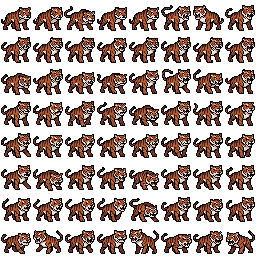
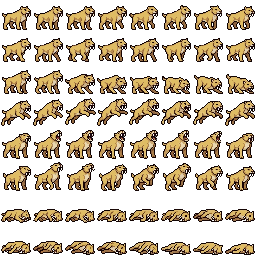
Nya bilder: örtgård, hygge, Dunkers hus, Dunker, Fjäss, gycklare, liggande lik, kista från sidan utan mynt, vinflaska, sabeltandad tiger
Claude-Session: https://claude.ai/code/session_018ajE8D2FggpF2yZQRYB5KY

diff --git a/spel.js b/spel.js
@@ -201,7 +201,7 @@ function visaTarningar(lista){
 const IKON = {
   // "i:" = npc/ikoner.png (ikonarket), "j:" = npc/ikoner2.png (ikonark 2), "g:" = npc/saker_grotta.png, "b:" = npc/saker_by.png
   "Läkedryck":"i:39","Läkande ört":"i:22","Grönfräken":"i:23","Gravstensalm":"i:24","Kråkmossa":"i:19","Hirtonbuske":"i:20","Tokfrans":"i:21",
-  "Krigarfasa":"g:50","Flaska vin":"g:29","Vin":"g:29","Rött té":"b:34","Äppelcider":"b:33","Lite bröd":"i:55","En limpa bröd":"i:55",
+  "Krigarfasa":"g:50","Flaska vin":"v:3","Vin":"v:3","Rött té":"b:34","Äppelcider":"b:33","Lite bröd":"i:55","En limpa bröd":"i:55",
   "Bröd (fyra kilo)":"i:55","Torkat kött":"i:56","Torkade fikon":"b:4","Rep":"i:16","Karta":"i:58","Karta över Grador och Liane":"i:58",
   "Trollformelbok":"i:44","Diktsamling":"g:13","Anteckningsblock":"g:13","Tärningsspel":"g:6","Elddon":"g:4",
   "Kort svärd":"i:0","Långsvärd":"i:1","Rostigt svärd":"i:2","Kroksabel":"i:3","Vantim":"i:4","Nannheim":"i:5","Gorgor":"i:6",
@@ -214,8 +214,8 @@ const IKON = {
 };
 // Uppdragens föremål
 const UPPDRAG_IKON = {skold:"g:63",patricia:"g:52",tarragon:"g:62",hostvakt:"i:32",slasby:"g:24",rattor:"i:25",svartalf:"i:26",broncos:"j:13",barnen:"j:11",gripagg:"j:12","doda-sjon":"i:54",krusbar:"i:28"};
-const IKONARK = {g:"saker_grotta", b:"saker_by", i:"ikoner", j:"ikoner2"};
-function ikonHtml(namn, extraKlass){ const k = IKON[namn] || namn; if(!k || !/^[gbij]:\d+$/.test(k)) return "";
+const IKONARK = {g:"saker_grotta", b:"saker_by", i:"ikoner", j:"ikoner2", v:"vinflaska"};
+function ikonHtml(namn, extraKlass){ const k = IKON[namn] || namn; if(!k || !/^[gbijv]:\d+$/.test(k)) return "";
   const [a,r] = k.split(":"); return `<canvas class="px ikon ${extraKlass||""}" data-ikon="${IKONARK[a]}:${r}" aria-hidden="true"></canvas>`; }
 function fyllIkoner(root){ (root||document).querySelectorAll("canvas[data-ikon]").forEach(c=>{ const [ark,r]=c.dataset.ikon.split(":"); G.ritaIkon(c, ark, Number(r)); }); }
 const guldHtml = n => `${ikonHtml("guld")}${n} guld`;
@@ -582,6 +582,7 @@ function scenMiljo(m, steg){
   const r = st.run, p = r && PLATS_BILD[r.q.plats];
   if(r && steg && steg.rumtyp==="boss" && BOSS_PLATS[r.q.plats]) return BOSS_PLATS[r.q.plats];
   if(steg && steg.rumtyp==="boss" && steg.fiender && BOSS_BILD[steg.fiender[0]]) return BOSS_BILD[steg.fiender[0]];
+  if(!p && m==="skog" && steg && steg.rumtyp==="skatt") return "hygge";   // skatten i skogen står på ett hygge
   if(!p) return m;
   if(p==="gruva" && steg && steg.rumtyp==="boss") return "gruva_kult";
   return p;
@@ -797,7 +798,8 @@ function ritaRun(){
     <section class="card"><div class="spelledare">${isakHtml(r.i)}<div><span class="small muted">Spelledaren Isak berättar</span><h2>${esc(titel)}</h2></div></div>${innehall}</section>
     ${loggHtml()}
     <div class="row"><button class="btn ghost small" data-a="hem">Till värdshuset (pausa)</button></div>`;
-  const ritaRum = orn => G.ritaScen($("#scen"), steg.typ==="resa"?resMiljo(miljo,r.i):scenMiljo(miljo, steg), steg.typ==="resa"?[]:fiendeVisning, steg.fro||r.i*977+13, steg.jens?"jens:"+(steg.vagn||0):steg.rumtyp==="falla"?"falla":steg.rumtyp==="skatt"?"skatt":steg.rumtyp==="vila"?"vila":steg.rumtyp==="hinder"?"hinder:"+({"En låst port":"dorr","En brant klippa":"stege","En gåta i sten":"mur","En bred klyfta":"klyfta","Forsande vatten":"vatten"}[steg.hinder.namn]||""):steg.typ==="resa"?"resa":null, scenHjaltar(null, orn), scenNpcer(steg));
+  const moteBild = steg.mote && MOTE_BILD[steg.mote];
+  const ritaRum = orn => G.ritaScen($("#scen"), moteBild || (steg.typ==="resa"?resMiljo(miljo,r.i):scenMiljo(miljo, steg)), steg.typ==="resa"?[]:fiendeVisning, steg.fro||r.i*977+13, steg.jens?"jens:"+(steg.vagn||0):steg.rumtyp==="falla"?"falla":steg.rumtyp==="skatt"?"skatt":steg.rumtyp==="vila"?"vila":steg.rumtyp==="hinder"?"hinder:"+({"En låst port":"dorr","En brant klippa":"stege","En gåta i sten":"mur","En bred klyfta":"klyfta","Forsande vatten":"vatten"}[steg.hinder.namn]||""):steg.typ==="resa"&&!moteBild?"resa":null, scenHjaltar(null, orn), scenNpcer(steg));
   ritaRum();
   if(r.ornVisa){ const v = r.ornVisa; r.ornVisa = null; spelaOrn(t => ritaRum(t==null ? undefined : {ruta:v.ruta, t, d:v.d})); }
   fyllPortratt(app); scrollaLogg();
@@ -805,10 +807,22 @@ function ritaRun(){
 }
 // Mötespersonen (och ett husdjur vid vägkanten när man går till fots) som ska stå i TV:n
 const DJUR_RUTOR = [0,1,2,3,4,5,6,7,8,9,10,11,12,13,14,15,16,17,18,19,20,21,22,23,24,25,26,27,28,29,30,31,32,33,34,35,36,37,38,39,40,41,42,43,44,45,48,49,50,51,52,53,54,55,56,57,58,59,60,61,62,63];
+// Möten med egna figurark (npc/*.png, 8×8 rutor) – ersätter figuren i varld.js. antal = hur många som står i bild.
+const MOTE_FIGUR = {
+  fjass:{ark:"fjass"}, dunker:{ark:"dunker"}, gycklare:{ark:"gycklare", antal:2},
+  lik:{ark:"lik", rutor:[24,25,26,27,28,29,30,11,14,15,61,62]}   // de som ligger platt
+};
+// Möten med egna målade bakgrunder
+const MOTE_BILD = {orter:"ortgard", dunker:"dunkers_hus"};
 function scenNpcer(steg){
   const r = st.run, ut = [];
   if(steg.jens) return ut;
   const m = steg.mote ? V.MOTEN.find(x=>x.id===steg.mote) : null;
+  const egen = m && MOTE_FIGUR[m.id];
+  if(egen){ const fro = (steg.fro || r.i*977+13), l = egen.rutor || Array.from({length:64},(_,i)=>i);
+    for(let k=0;k<(egen.antal||1);k++) ut.push({ark:egen.ark, ruta:l[(fro + k*23) % l.length]});
+    return ut; }
+  if(m && MOTE_BILD[m.id]){ if(m.npc) ut.push({ark:m.npc.ark, ruta:m.npc.ruta}); return ut; }   // egen bakgrund: inga extra saker eller djur
   if(m && m.npc) ut.push(m.npc.fiende ? {fiende:m.npc.fiende, ruta:G.fiendeRutor(m.npc.fiende)[0]} : {ark:m.npc.ark, ruta:m.npc.ruta});
   if(m && m.id==="kopman"){ ut.push({ark:"saker_by", ruta:32, spegel:false}); return ut; }
   if(m && m.id==="orter"){ ut.push({ark:"saker_by", ruta:56, spegel:false}); return ut; }

diff --git a/grafik.js b/grafik.js
@@ -82,10 +82,15 @@ G.ritaScen = (canvas, miljoId, fiender, fro, extra, hjaltar, npcer) => {
   // Lägereldarna i de målade lägerbilderna fladdrar och ryker (eget lager ovanpå, se ELD längre ner)
   G.eldLager(canvas, ELDAR[window.BAKGRUND.namn(bgId, fro)] || null);
   // rummets föremål (skatt, fälla, vila…)
-  // Skattkista och lägereld ur möbelarket (npc/mobler.png): ruta 52 = kista, 36 = lägereld med stekspett
-  if(extra==="skatt" || (extra==="vila" && !window.BAKGRUND.harEgen(bgId))){   // lägerbilderna har redan en eld
+  // Skattkistan ur kistarket (npc/kista.png, rad 2 är tom) och lägerelden ur möbelarket (npc/mobler.png, ruta 36)
+  if(extra==="skatt"){
+    const kista = G.npcBild("kista"), r = KISTOR[Math.floor(slump((fro||7)*13+1)()*KISTOR.length)];
+    if(kista.complete && kista.naturalWidth){ ctx.fillStyle="#0005"; ctx.fillRect(90, 77+markNer, 20, 3); G.ritaRuta(ctx, kista, r, 88, 55+markNer, 24); }   // står på marken i höjd med hjältarnas fötter
+    else omRitaVid(kista);
+  }
+  if(extra==="vila" && !window.BAKGRUND.harEgen(bgId)){   // lägerbilderna har redan en eld
     const mob = G.npcBild("mobler");
-    if(mob.complete && mob.naturalWidth){ ctx.fillStyle="#0005"; ctx.fillRect(88, 77, 24, 3); G.ritaRuta(ctx, mob, extra==="skatt"?52:36, 84, 53, 32); }   // står på marken i höjd med hjältarnas fötter
+    if(mob.complete && mob.naturalWidth){ ctx.fillStyle="#0005"; ctx.fillRect(88, 77, 24, 3); G.ritaRuta(ctx, mob, 36, 84, 53, 32); }
     else omRitaVid(mob);
   }
   // Saker ur npc/saker_grotta.png ("g") och npc/saker_by.png ("b")
@@ -105,7 +110,6 @@ G.ritaScen = (canvas, miljoId, fiender, fro, extra, hjaltar, npcer) => {
   }
   if(extra==="resa") sak(sb, 27, 74, 50, 26);                                   // vägvisare vid vägen
   if(extra==="falla") sak(sg, 53, 74, 54, 26);                                  // spikfälla
-  if(extra==="skatt"){ sak(sg, 19, 76, 70, 10); sak(sg, 19, 82, 72, 9); sak(sg, 24, 114, 68, 12); sak(sg, 40, 120, 71, 10); } // mynt och ädelstenar
   if(extra==="hinder:dorr" && !window.BAKGRUND.harEgen(bgId)){ sak(sb, 26, 82, 44, 34); sak(sg, 54, 92, 60, 12); } // låst port med hänglås
   if(extra==="hinder:stege" && !window.BAKGRUND.harEgen(bgId)) sak(sb, 13, 84, 40, 38);
   if(extra==="hinder:mur" && !window.BAKGRUND.harEgen(bgId)) ritaStenport(ctx, 178, (76 + markNer)*2, fro);   // gåtan i sten: en stenport med runor
@@ -337,7 +341,8 @@ G.regnLager = (canvas, pa) => {
 
 // Miljöer där marken i den målade bilden ligger längre ner, så att figurerna inte svävar (pixlar i 160×90)
 // (nyckeln kan vara en miljö eller en enskild bild, t.ex. klyfta_ute2)
-const MARK_NER = { grotta7: 5, arena_tra: 4, arena_tra_tom: 4, arena_sten: 6, arena_sten_tom: 6, basar: 9, port_inne: 6, port_ute: 6, klippa: 6, boss_orch: 5, boss_svartalf: 3, boss_dodasjon: 7, boss_drake: 6, boss_grip: 6, boss_harpyor: 6, tehandeln: 6, vag1: 6, vag2: 6, vag3: 6, vag4: 6, skog3: 6, skog3natt: 6, klyfta_ute: -13, klyfta_ute2: -13, klyfta_inne: -18, klyfta_inne2: -19 };
+const KISTOR = Array.from({length:64},(_,i)=>i).filter(i=>i<8||i>15);   // npc/kista.png: rad 2 är tom
+const MARK_NER = { ortgard1: 6, ortgard2: 6, dunkers_hus: 4, grotta7: 5, arena_tra: 4, arena_tra_tom: 4, arena_sten: 6, arena_sten_tom: 6, basar: 9, port_inne: 6, port_ute: 6, klippa: 6, boss_orch: 5, boss_svartalf: 3, boss_dodasjon: 7, boss_drake: 6, boss_grip: 6, boss_harpyor: 6, tehandeln: 6, vag1: 6, vag2: 6, vag3: 6, vag4: 6, skog3: 6, skog3natt: 6, klyfta_ute: -13, klyfta_ute2: -13, klyfta_inne: -18, klyfta_inne2: -19 };
 // Hur tätt hjältarna står (pixlar mellan dem). Vid klyftan står de tätare så att alla får plats på kanten.
 const HJ_STEG = { klyfta_ute: 9, klyfta_inne: 9, lager_ute: 12, lager_inne: 12, lager_inne2: 9 };
 // Var den första hjälten står (x i 160×90). Vid klyftan börjar de längre till vänster så att ingen hamnar över kanten.

diff --git a/bakgrund.js b/bakgrund.js
@@ -336,7 +336,7 @@ RITA.trask = (ctx, rnd) => {
 // Rita med cache: varje (miljö, frö) ritas en gång och återanvänds sedan
 const CACHE = new Map();
 // Egna målade bakgrunder (320×180, dubbel upplösning) i mappen bakgrunder/. Saknas en miljö här ritas den med kod.
-const EGNA = { arena_tra:["arena_tra"], arena_tra_tom:["arena_tra_tom"], arena_sten:["arena_sten"], arena_sten_tom:["arena_sten_tom"], grotta:["grotta1","grotta2","grotta3","grotta4","grotta5","grotta6","grotta7","grotta8","grotta9"], skog:["skog1","skog2","skog3","skog4","skog5","skog1natt","skog2natt","skog3natt","skog4natt","skog5natt"], oken:["oken1","oken2","oken3","oken4","oken5"], berg:["berg1","berg2","berg3","berg4","berg5","berg6","berg7"], ruin:["ruin1","ruin2","ruin3","ruin4","ruin5"], gravfalt:["gravfalt1","gravfalt2","gravfalt3","gravfalt4","gravfalt5","gravfalt6"], trask:["trask1","trask2","trask3","trask4","trask5","trask6"], kloak:["kloak1","kloak2","kloak3","kloak4","kloak5"], basar:["basar"], gruva:["gruva1","gruva2","gruva3","gruva4","gruva5","gruva6"], vag:["vag1","vag2","vag3","vag4"], lager_ute:["lager_ute","lager_ute2"], lager_inne:["lager_inne","lager_inne2"],
+const EGNA = { ortgard:["ortgard1","ortgard2"], hygge:["hygge1","hygge2"], dunkers_hus:["dunkers_hus"], arena_tra:["arena_tra"], arena_tra_tom:["arena_tra_tom"], arena_sten:["arena_sten"], arena_sten_tom:["arena_sten_tom"], grotta:["grotta1","grotta2","grotta3","grotta4","grotta5","grotta6","grotta7","grotta8","grotta9"], skog:["skog1","skog2","skog3","skog4","skog5","skog1natt","skog2natt","skog3natt","skog4natt","skog5natt"], oken:["oken1","oken2","oken3","oken4","oken5"], berg:["berg1","berg2","berg3","berg4","berg5","berg6","berg7"], ruin:["ruin1","ruin2","ruin3","ruin4","ruin5"], gravfalt:["gravfalt1","gravfalt2","gravfalt3","gravfalt4","gravfalt5","gravfalt6"], trask:["trask1","trask2","trask3","trask4","trask5","trask6"], kloak:["kloak1","kloak2","kloak3","kloak4","kloak5"], basar:["basar"], gruva:["gruva1","gruva2","gruva3","gruva4","gruva5","gruva6"], vag:["vag1","vag2","vag3","vag4"], lager_ute:["lager_ute","lager_ute2"], lager_inne:["lager_inne","lager_inne2"],
   vesselberget:["vesselberget1","vesselberget2"], bududuoar:["bududuoar1","bududuoar2"], tehandeln:["tehandeln"], boss_drake:["boss_drake"], boss_grip:["boss_grip"], boss_harpyor:["boss_harpyor"], boss_orch:["boss_orch"], boss_svartalf:["boss_svartalf"], boss_dodasjon:["boss_dodasjon"], gata_inne:["gata_inne"], gata_inne_gruva:["gata_inne_gruva"], gata_inne_kloak:["gata_inne_kloak"],
   gata_ute:["gata_ute"], gata_ute_ruin:["gata_ute_ruin"], gata_ute_oken:["gata_ute_oken"], port_inne:["port_inne"], port_ute:["port_ute"], klippa:["klippa"], klippa_oken:["klippa_oken"], klippa_ruin:["klippa_ruin"], boss_rattkung:["boss_rattkung"], boss_general:["boss_general"], boss_gravvaktare:["boss_gravvaktare"], boss_dendroidmoder:["boss_dendroidmoder"], boss_rovarhovding:["boss_rovarhovding"], vatten_ute:["vatten_ute"], vatten_inne:["vatten_inne"], smedjan:["smedjan"], gruva_kult:["gruva_kult"], klyfta_ute:["klyfta_ute","klyfta_ute2"], klyfta_inne:["klyfta_inne","klyfta_inne2"] };
 const EBILDER = {};

diff --git a/sw.js b/sw.js
@@ -1,7 +1,7 @@
 // Fantasyvärlden – service worker.
 // Egna filer: nätet först (så uppdateringar syns direkt), cachen som reserv när man är offline.
 // GitHub-API:t (sparfilen) cachas aldrig.
-const CACHE = "fantasyvarlden-v86";
+const CACHE = "fantasyvarlden-v87";
 const SHELL = ["./","./index.html","./spel.js","./regler.js","./varld.js","./hjaltar.js","./figurer.js","./fiendebilder.js","./bakgrund.js","./grafik.js","./manifest.json","./icons/icon-180.png","./icons/icon-192.png","./icons/icon-512.png"];
 self.addEventListener("install", e => { e.waitUntil(caches.open(CACHE).then(c => c.addAll(SHELL)).then(() => self.skipWaiting())); });
 self.addEventListener("activate", e => { e.waitUntil(caches.keys().then(k => Promise.all(k.filter(x => x !== CACHE).map(x => caches.delete(x)))).then(() => self.clients.claim())); });
